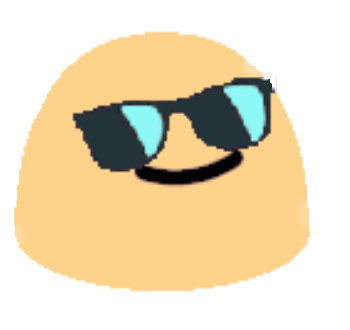
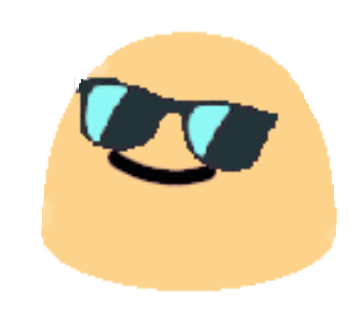
Added Shake Exp Margins
Learning more on margins and - values and added shake feature to all images. trying to make it only on 2 imgs

Changed region(s): [[0.0286, 0.0909, 0.9714, 0.9091]]

diff --git a/css/partyblob.css b/css/partyblob.css
@@ -13,7 +13,16 @@ h3{
 
 html{
 	background-color: #818385;
-	max-width: 1500px;
+	max-width: 1350px;
+}
+
+.think{
+	margin: -125px;
+}
+
+.center{
+
+
 }
 
 .img-1{
@@ -22,11 +31,13 @@ html{
 	text-align: right;
 	padding: 25px 70px;
 	max-width: 275px;
+
 }
 
 .img-2{
 	text-align: left;
-	
+	margin: -250 -100px;
+
 }
 
 .yo{
@@ -55,4 +66,26 @@ html{
 
 @media screen and (max-width: 1382px) {
 	html
+}
+
+/*Makes all images shake, how do i get just 1 or 2 shake? class doesnt seem to work
+further analysis needed*/
+
+img:hover {
+  animation: shake 0.5s;
+  animation-iteration-count: infinite;
+}
+
+@keyframes shake {
+  0% { transform: translate(1px, 1px) rotate(0deg); }
+  10% { transform: translate(-1px, -2px) rotate(-1deg); }
+  20% { transform: translate(-3px, 0px) rotate(1deg); }
+  30% { transform: translate(3px, 2px) rotate(0deg); }
+  40% { transform: translate(1px, -1px) rotate(1deg); }
+  50% { transform: translate(-1px, 2px) rotate(-1deg); }
+  60% { transform: translate(-3px, 1px) rotate(0deg); }
+  70% { transform: translate(3px, 1px) rotate(-1deg); }
+  80% { transform: translate(-1px, -1px) rotate(1deg); }
+  90% { transform: translate(1px, 2px) rotate(0deg); }
+  100% { transform: translate(1px, -2px) rotate(-1deg); }
 }

diff --git a/party-blob.html b/party-blob.html
@@ -36,7 +36,7 @@
 		I enjoy the simple things in life.<br>
 		I really feel like some Soda Pop right now...<br>
 		</h2>
-		<img src="img/think.png">
+		<img class='think' src="img/think.png">
 		
 		<!-- links & what not -->
 
